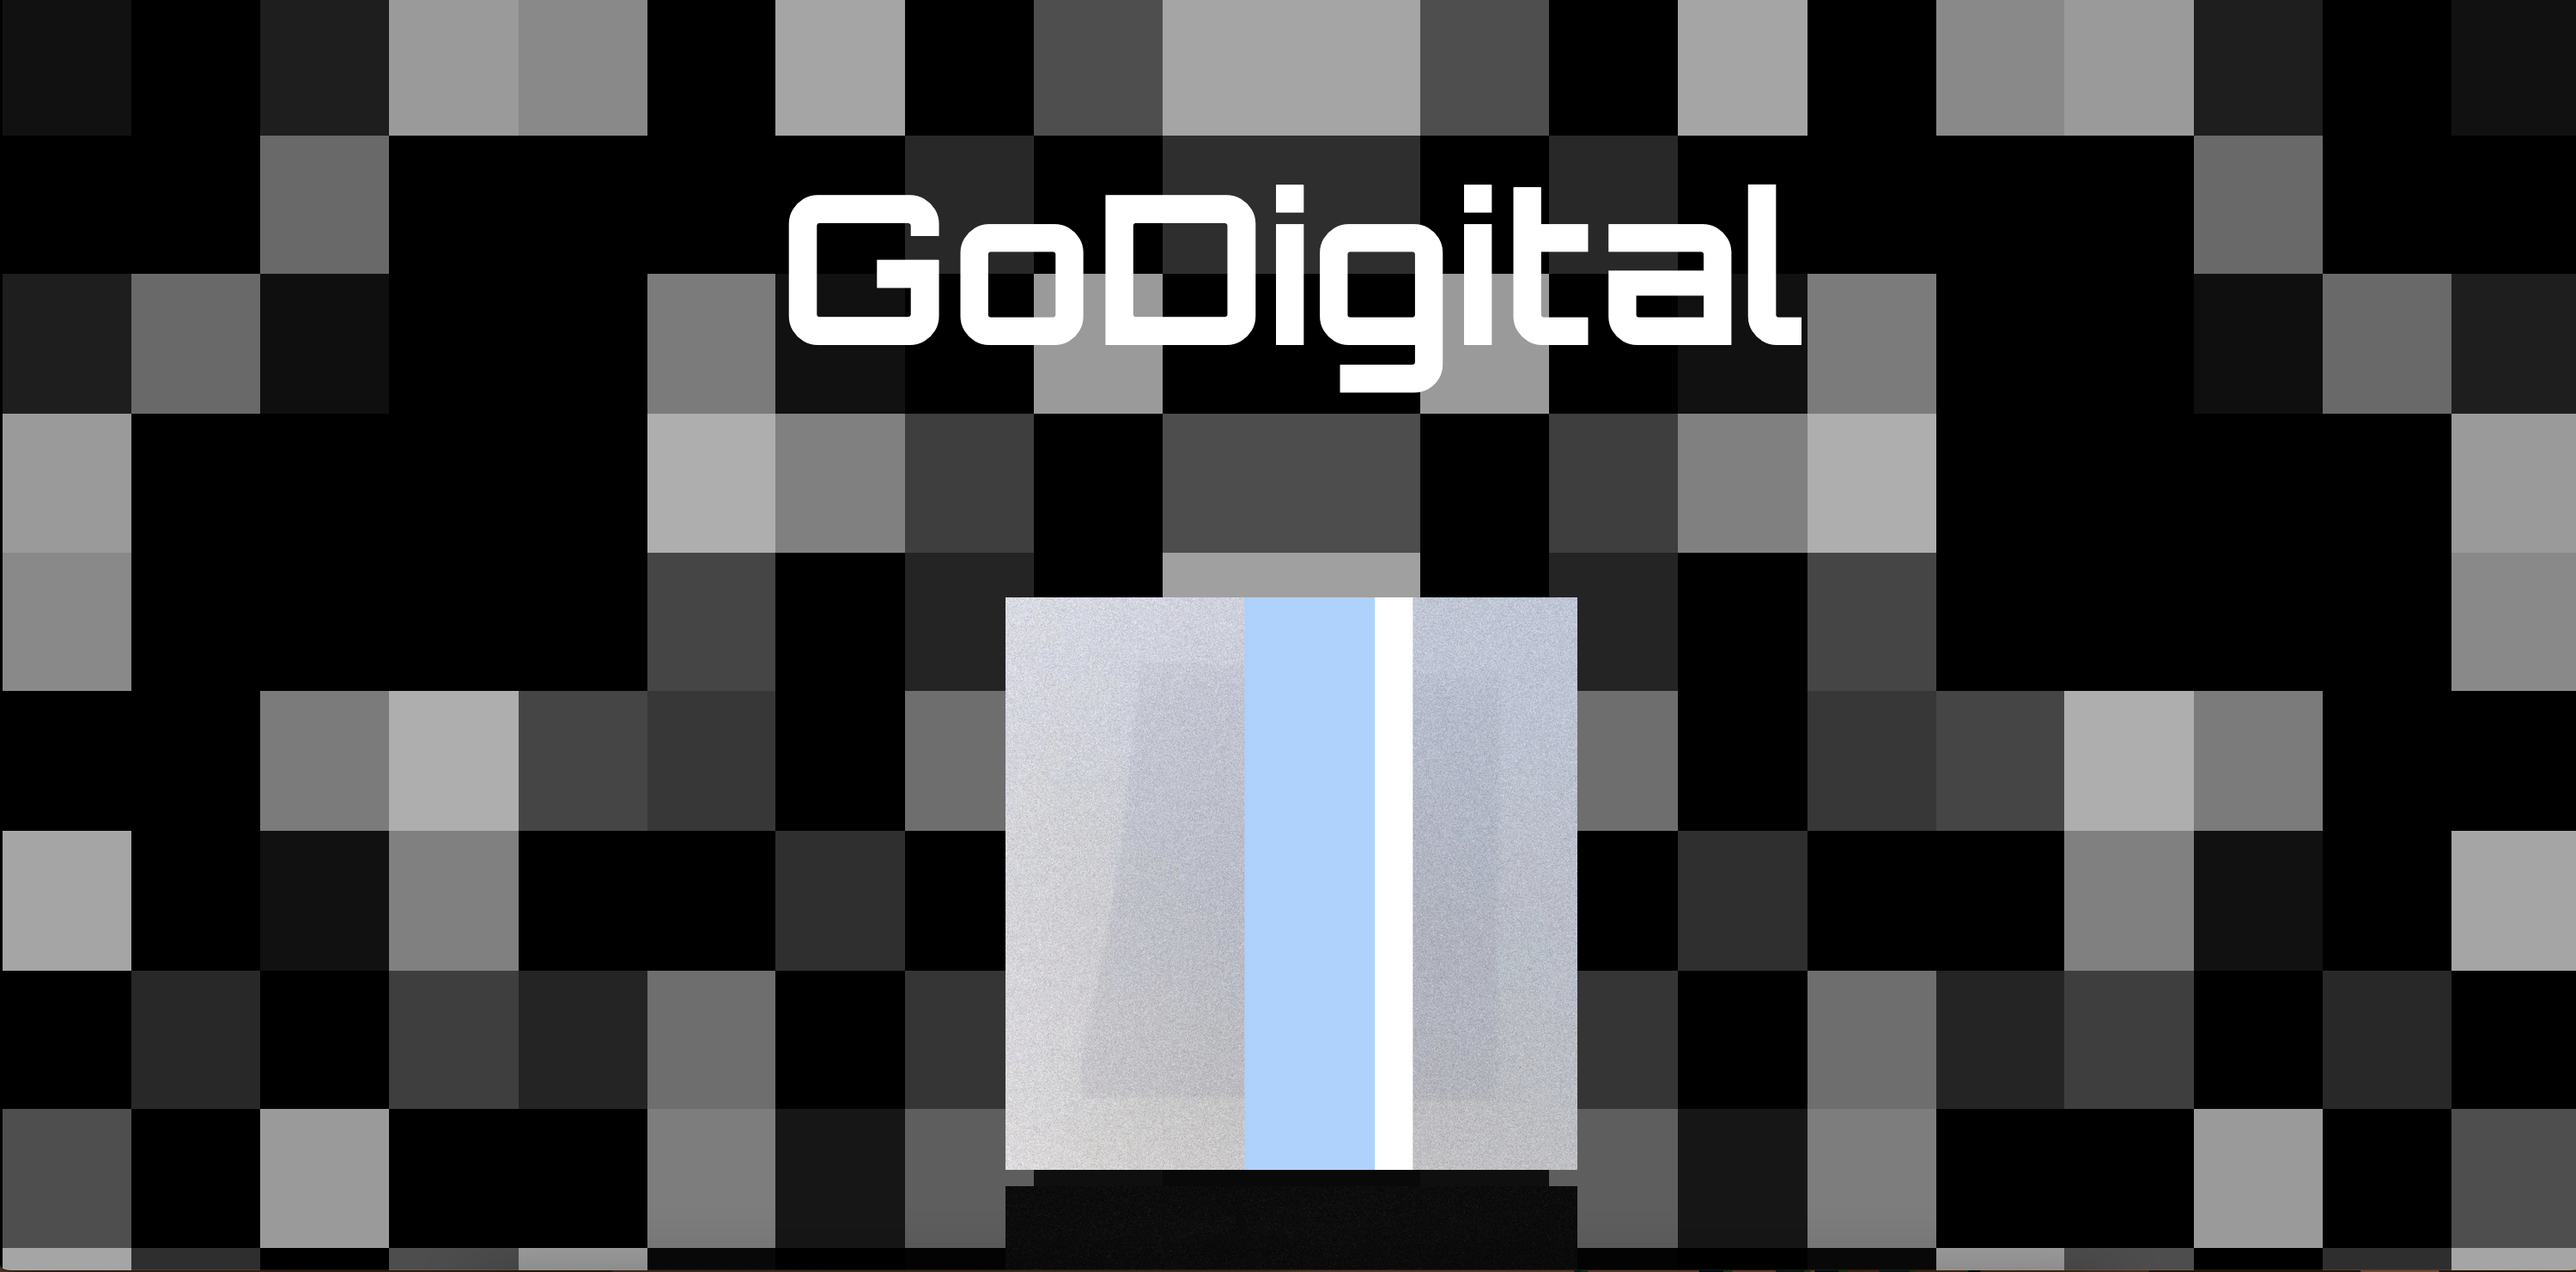
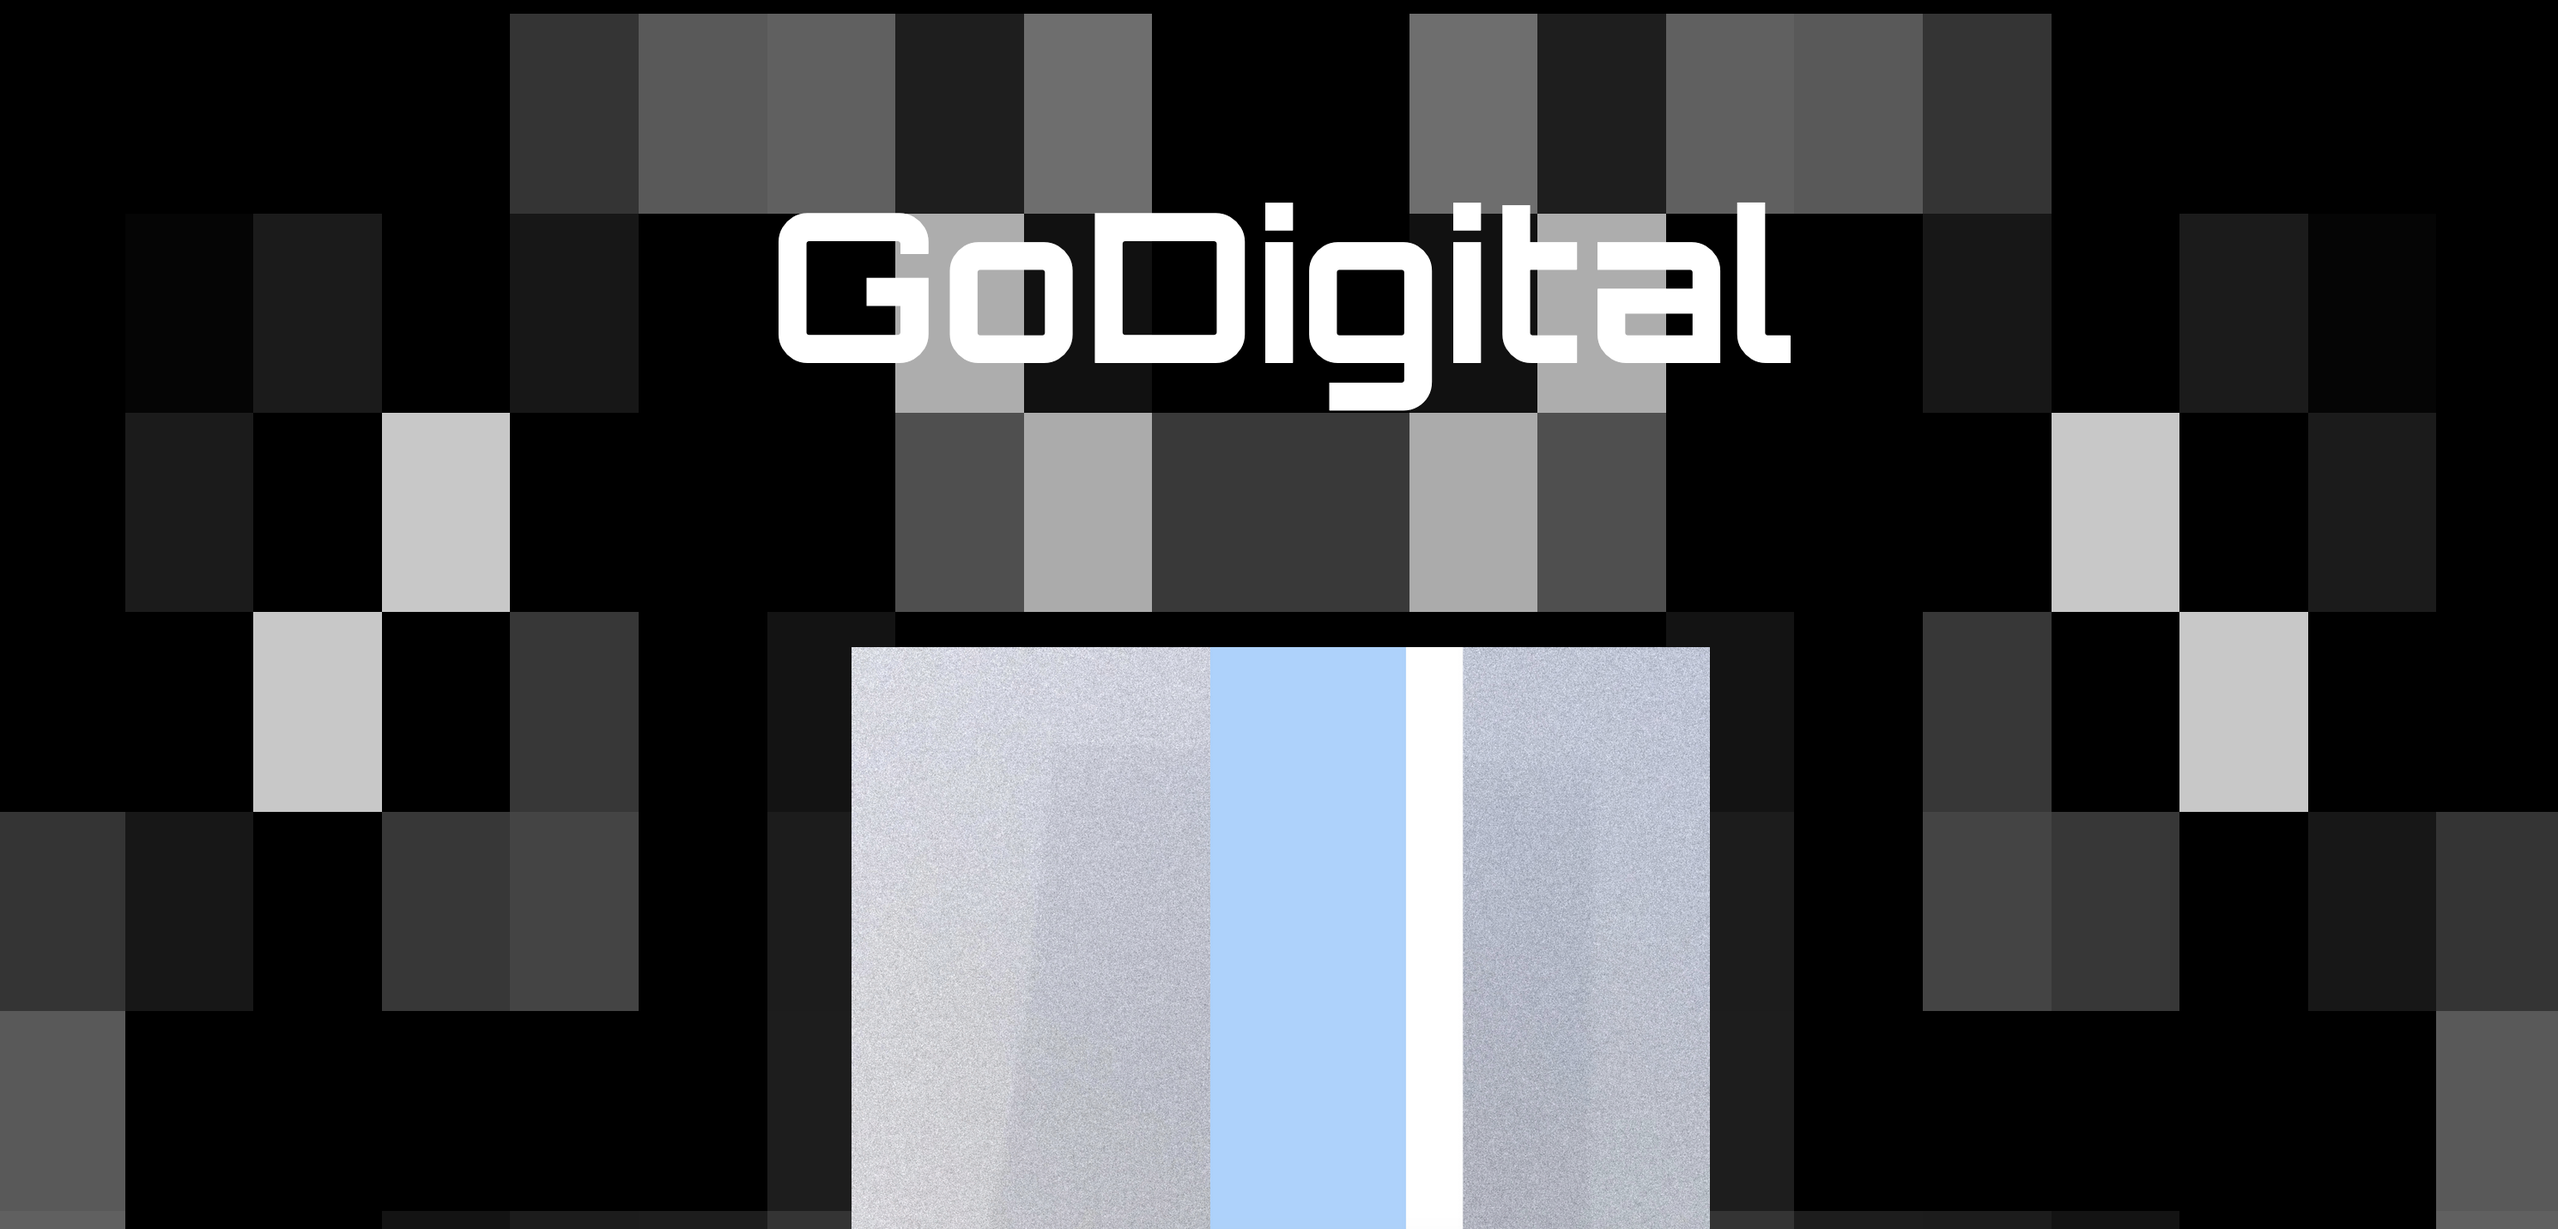
Update project images to play gif on hover

diff --git a/src/components/projects.jsx b/src/components/projects.jsx
@@ -1,4 +1,4 @@
-import React from "react";
+import React, { useState } from "react";
 import Image from "next/image";
 import Link from "next/link";
 import { Icon } from "@iconify-icon/react";
@@ -9,6 +9,7 @@ const projects = [
     description:
       "An e-commerce site with a focus on selling Sound Packs and Synth Presets to be used in electronic music production. Built with Next.js 13.4, Typescript & Tailwind.",
     image: "/projectImages/wavform.gif",
+    cover: "/projectImages/wavformcover.png",
     logo: "/projectImages/soundpack-storefront.png",
     liveDemo: "https://wavform.vercel.app/",
     repo: "https://github.com/MaximMurphy/soundpack-storefront",
@@ -18,6 +19,7 @@ const projects = [
     description:
       "A website for my side electronic music project, GoDigital. Built using JS, HTML, & CSS. Background animations created using Hydra Video Synth",
     image: "/projectImages/godigital.gif",
+    cover: "/projectImages/godigitalcover.png",
     logo: "/projectImages/GoDigital.png",
     liveDemo: "https://godigitalgo.netlify.app/",
     repo: "https://github.com/MaximMurphy/GoDigital",
@@ -27,57 +29,80 @@ const projects = [
     description:
       "A web application for users to review food from a restaurant and share with others. Developed using NextJS for frontend and Firebase for backend.",
     image: "/projectImages/reviewyourfood.gif",
+    cover: "/projectImages/reviewyourfoodcover.png",
     logo: "/projectImages/recipe-app.png",
     liveDemo: "https://review-your-food.vercel.app/",
     repo: "https://github.com/MaximMurphy/recipe-app",
   },
 ];
 
-const ProjectCard = ({ project }) => (
-  <div className="h-[34rem] lg:h-[36rem] w-[320px] lg:w-96 flex flex-col items-start bg-offwhite-600 border-2 border-offwhite-800 text-cyan-950 rounded-xl p-8 gap-8">
-    <h1 className="text-2xl font-semibold">{project.name}</h1>
-    <div className="w-fit h-fit peer">
-      <Link href={project.liveDemo} target="_blank" rel="noopener noreferrer">
-        <Image
-          src={project.image}
-          alt={project.name}
-          width={800}
-          height={385}
-          quality={100}
-          priority
-          className="w-full h-full rounded-lg border border-offwhite-900"
-        />
-      </Link>
-    </div>
-    <div className="flex flex-col items-start gap-2 peer-hover:text-cyan-600">
-      <Image
-        src={project.logo}
-        alt="logo"
-        width={192}
-        height={192}
-        quality={100}
-        priority
-        className="w-8 h-8"
-      />
-      <p className="text-justify lg:text-lg">{project.description}</p>
-      <div className="flex flex-row gap-2 mt-2 text-cyan-950 font-bold">
-        <Link href={project.repo} target="_blank" rel="noopener noreferrer">
-          <Icon
-            icon="simple-icons:github"
-            className="text-2xl hover:drop-shadow-2xl hover:scale-110"
-          />
-        </Link>
-        <p>·</p>
+const ProjectCard = ({ project }) => {
+  const [isHovered, setIsHovered] = useState(false);
+
+  const handleMouseEnter = () => {
+    setIsHovered(true);
+  };
+
+  const handleMouseLeave = () => {
+    setIsHovered(false);
+  };
+
+  const imageSource = isHovered ? project.image : project.cover;
+
+  return (
+    <div
+      className="hover:cursor-cell h-[34rem] lg:h-[36rem] w-[320px] lg:w-96 flex flex-col items-start bg-offwhite-600 border-2 border-offwhite-800 text-cyan-950 rounded-xl p-8 gap-8"
+      onMouseEnter={handleMouseEnter}
+      onMouseLeave={handleMouseLeave}
+    >
+      <h1 className="text-2xl font-semibold">{project.name}</h1>
+      <div className="w-fit h-full peer">
         <Link href={project.liveDemo} target="_blank" rel="noopener noreferrer">
-          <Icon
-            icon="mdi:external-link"
-            className="text-2xl hover:drop-shadow-2xl hover:scale-110"
+          <Image
+            src={imageSource}
+            alt={project.name}
+            width={800}
+            height={385}
+            quality={100}
+            priority
+            className="w-full h-full rounded-lg border border-offwhite-900"
           />
         </Link>
       </div>
+      <div className="flex flex-col items-start gap-2 peer-hover:text-cyan-600">
+        <Image
+          src={project.logo}
+          alt="logo"
+          width={192}
+          height={192}
+          quality={100}
+          priority
+          className="w-8 h-8"
+        />
+        <p className="text-justify lg:text-lg">{project.description}</p>
+        <div className="flex flex-row gap-2 mt-2 text-cyan-950 font-bold">
+          <Link href={project.repo} target="_blank" rel="noopener noreferrer">
+            <Icon
+              icon="simple-icons:github"
+              className="text-2xl hover:drop-shadow-2xl hover:scale-110"
+            />
+          </Link>
+          <p>·</p>
+          <Link
+            href={project.liveDemo}
+            target="_blank"
+            rel="noopener noreferrer"
+          >
+            <Icon
+              icon="mdi:external-link"
+              className="text-2xl hover:drop-shadow-2xl hover:scale-110"
+            />
+          </Link>
+        </div>
+      </div>
     </div>
-  </div>
-);
+  );
+};
 
 const Projects = () => (
   <div
